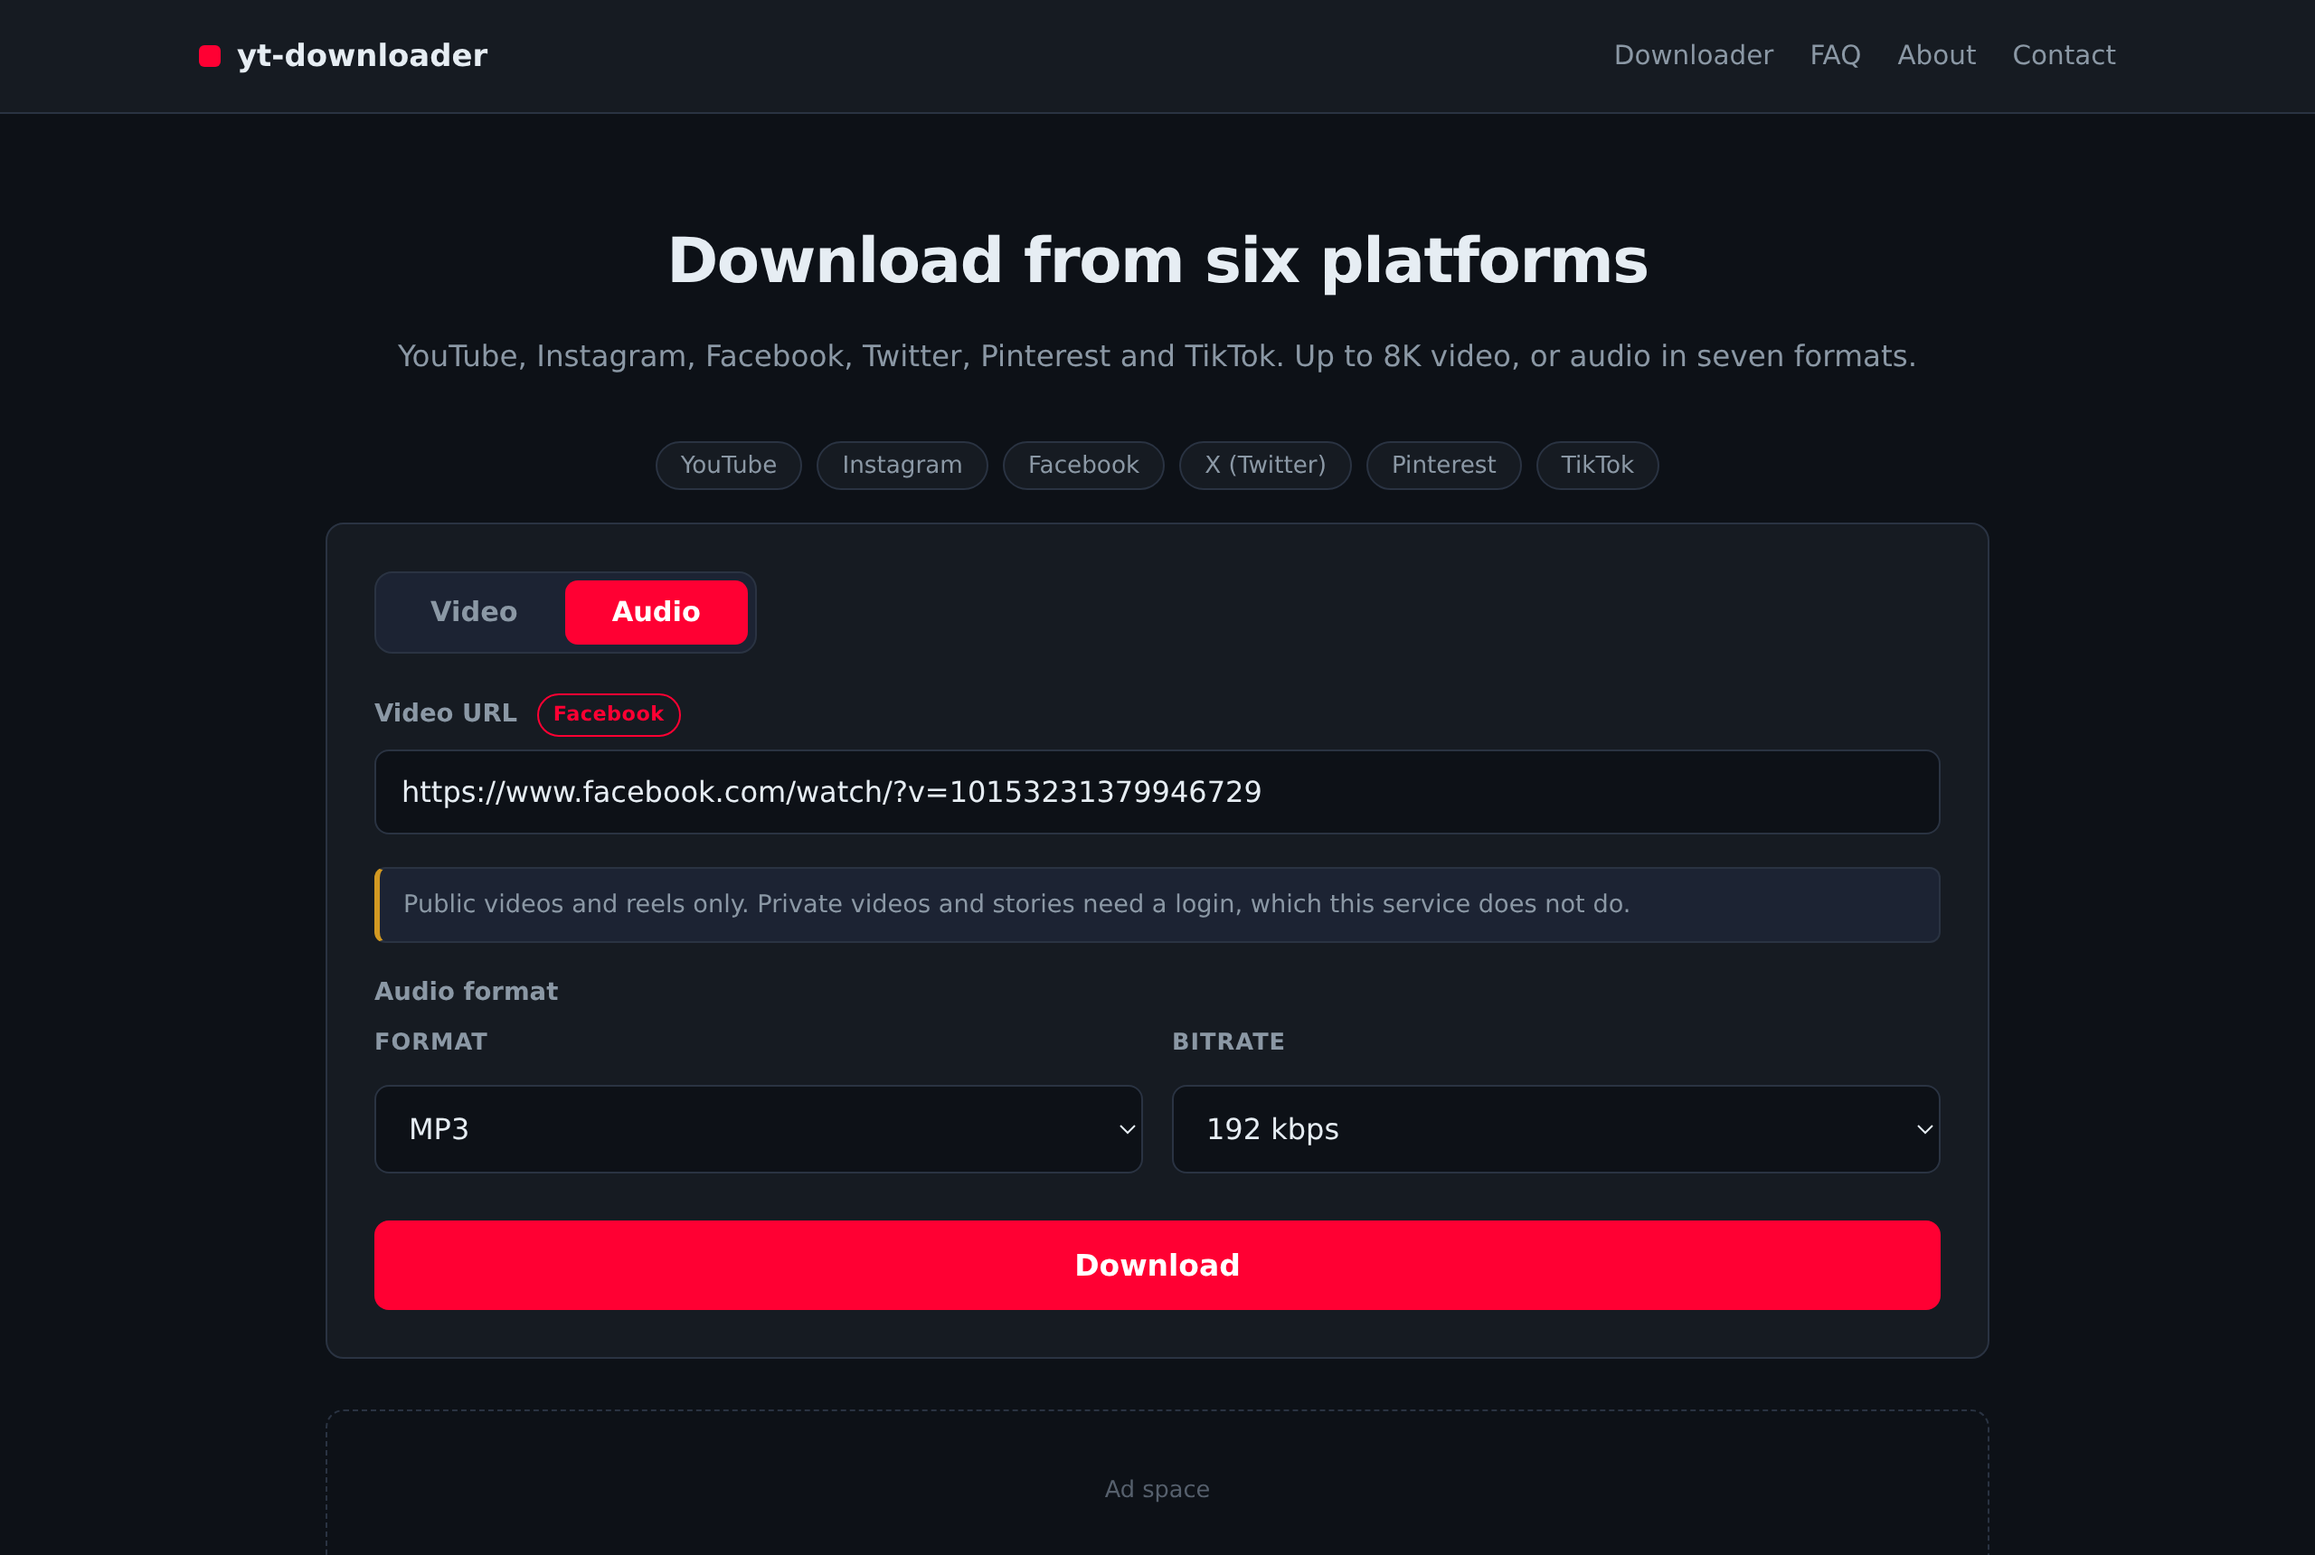
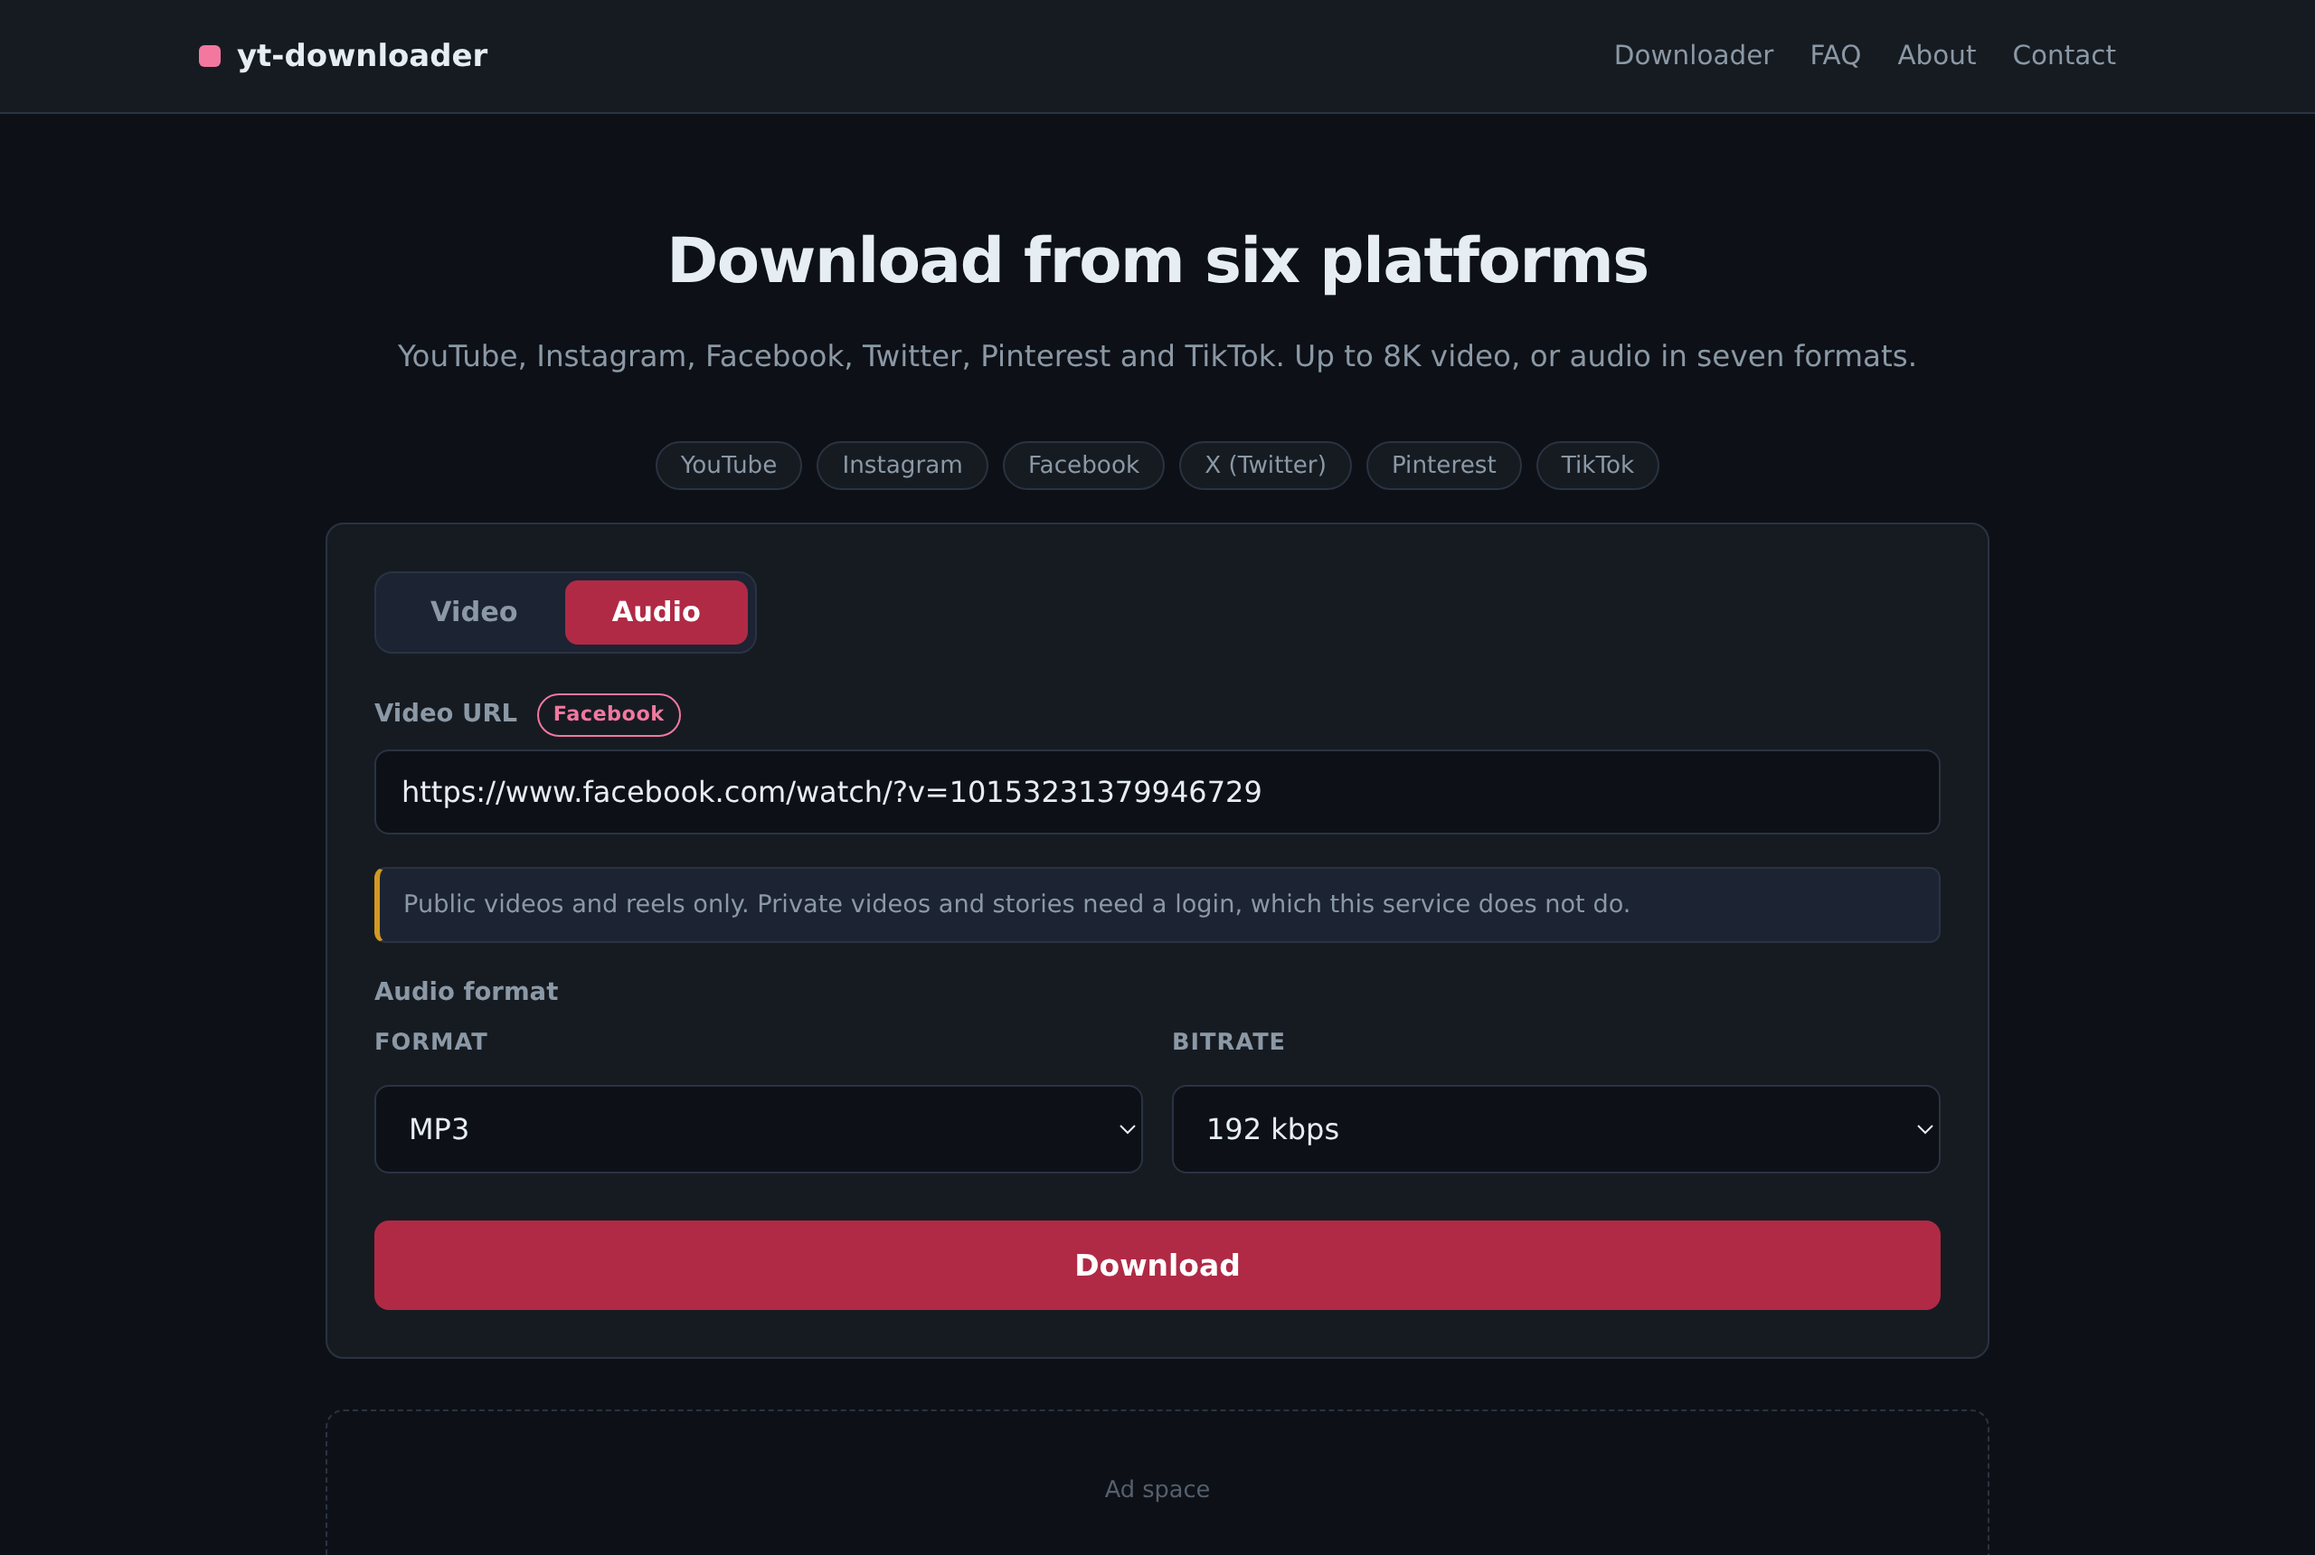
Replace the red accent with an eye-friendly rose palette
Bright red (#ff0033) is harsh to look at on the dark background and reads as
"error", which is the wrong signal for a normal primary action. It also failed
contrast: white text on it measured 3.96:1, below the WCAG AA threshold of 4.5.

One token cannot serve both roles, so the palette splits them:

  --accent        #f2789f  link text, borders, progress fill, chips
                           7.18:1 on --bg
  --accent-solid  #b02a45  filled buttons and active tabs, under white text
                           6.44:1 against white
  --accent-hover  #c9334b  hover state for the filled buttons, 5.17:1

Every filled surface that carries white text now uses --accent-solid; --accent
is only used on dark backgrounds or as a decorative fill. The error alert is
softened to a rose tint (#3a1a20 on #ffc9d2, 10.78:1) so it stays distinct from
the accent without shouting.

The change is confined to the :root block of frontend/assets/style.css. No page
or script hardcodes a colour, so nothing else needed editing.

Also replaced the one red in the diagrams: the rejection path in
request-flow.svg moves from #cf222e to #b02a45, keeping the light-canvas SVG
palette consistent with the app.

Recaptured all four screenshots, since they show the UI and the old red would
otherwise be baked into the README. Verified pixel-wise that the previous
accent appears zero times in the new captures.

README gains a "Colour and accessibility" section documenting the tokens, their
[…]

Changed region(s): [[0.1562, 0.7703, 0.8438, 0.8628], [0.2188, 0.3698, 0.3438, 0.4622]]

diff --git a/frontend/assets/style.css b/frontend/assets/style.css
@@ -5,8 +5,15 @@
   --border: #2a3342;
   --text: #e6edf3;
   --muted: #8b98a5;
-  --accent: #ff0033;
-  --accent-hover: #ff2a55;
+  /* Rose accent, replaces the earlier saturated red. Chosen so that both
+     directions of use clear WCAG AA (4.5:1):
+       --accent        link text on --bg      7.18:1
+       --accent-solid  filled button surfaces 6.44:1 against white text
+     Keep the two roles separate: --accent is too light for white text, and
+     --accent-solid is too dark for body text on --bg. */
+  --accent: #f2789f;
+  --accent-hover: #c9334b;
+  --accent-solid: #b02a45;
   --ok: #3fb950;
   --warn: #d29922;
   --radius: 10px;
@@ -113,7 +120,7 @@ nav.site a:hover { color: var(--text); text-decoration: none; }
   transition: background 0.15s, color 0.15s;
 }
 
-.toggle button.active { background: var(--accent); color: #fff; }
+.toggle button.active { background: var(--accent-solid); color: #fff; }
 .toggle button:hover:not(.active) { color: var(--text); }
 
 /* ---------- Input ---------- */
@@ -165,15 +172,15 @@ input:focus, textarea:focus, select:focus {
 
 .quality-grid button:hover { border-color: var(--accent); }
 .quality-grid button.active {
-  background: var(--accent);
-  border-color: var(--accent);
+  background: var(--accent-solid);
+  border-color: var(--accent-solid);
   color: #fff;
 }
 
 /* ---------- Primary button ---------- */
 .btn-primary {
   width: 100%;
-  background: var(--accent);
+  background: var(--accent-solid);
   color: #fff;
   border: 0;
   border-radius: 8px;
@@ -225,7 +232,7 @@ input:focus, textarea:focus, select:focus {
 }
 
 .alert.visible { display: block; }
-.alert.error { background: #3d1418; border: 1px solid #7d2029; color: #ffb3ba; }
+.alert.error { background: #3a1a20; border: 1px solid #8a3a47; color: #ffc9d2; }
 .alert.ok { background: #12261a; border: 1px solid #1f6b32; color: #8ce9a3; }
 
 .download-link {

diff --git a/README.md b/README.md
@@ -20,6 +20,7 @@ shows an Audio tab it cannot honour.*
 
 - [What it does](#what-it-does)
 - [Screenshots](#screenshots)
+- [Colour and accessibility](#colour-and-accessibility)
 - [Stack](#stack)
 - [Architecture](#architecture)
 - [How the download logic works](#how-the-download-logic-works)
@@ -67,6 +68,31 @@ format selector and a bitrate selector (128–320 kbps, or best available).*
 *Completion. The task ran as a queued job; the API returned a task id
 immediately and the UI watched it. At 100% the progress bar is replaced by a
 direct link to `/api/file/{task_id}`.*
+
+## Colour and accessibility
+
+The accent is a rose (`#f2789f`), not a saturated red. Bright red on a dark
+surface is hard to look at for long — it vibrates against the background, and it
+is the colour people are trained to read as "error", which is the wrong signal
+for a normal primary action.
+
+One variable cannot serve both roles, so the palette splits them:
+
+| Token | Value | Used for | Contrast |
+|-------|-------|----------|----------|
+| `--accent` | `#f2789f` | Link text, borders, progress fill, chips | 7.18:1 on `--bg` |
+| `--accent-solid` | `#b02a45` | Filled buttons and active tabs, under white text | 6.44:1 against white |
+| `--accent-hover` | `#c9334b` | Hover state for the filled buttons | 5.17:1 against white |
+
+This is not cosmetic. The previous `--accent: #ff0033` measured **3.96:1**
+against white text on the primary button, below the WCAG AA threshold of 4.5:1.
+The rose pair clears AA in both directions, so the same token is safe as body
+text on the dark background and as a button surface under white text. The error
+alert was softened to a rose tint as well (`#3a1a20` on `#ffc9d2`, 10.78:1) so
+it stays distinguishable from the accent without shouting.
+
+All colours live in the `:root` block of `frontend/assets/style.css`. Change
+them there; no page or script hardcodes a colour.
 
 ## Stack
 

diff --git a/AGENTS.md b/AGENTS.md
@@ -94,6 +94,16 @@ docker compose config --quiet   # validate before pushing
 
 ## README assets
 
+- **The accent palette is rose, not red, and splits into two tokens.** Bright
+  red (`#ff0033`) vibrates on the dark background and reads as "error" on a
+  primary action; it also measured only 3.96:1 against white button text, below
+  WCAG AA. Use `--accent: #f2789f` for text, borders and fills on dark surfaces
+  (7.18:1), and `--accent-solid: #b02a45` for any filled surface that carries
+  white text (6.44:1). Never put white text on `--accent`; never put body text
+  on `--accent-solid`. All colours live in `:root` in
+  `frontend/assets/style.css` — no page or script hardcodes one, so the palette
+  is a one-file change. Changing it means recapturing the screenshots, since
+  they show the UI.
 - `docs/img/*.svg` are hand-written diagrams (architecture, request flow, format
   pipeline, platform matrix). They use only text, rects, lines and paths, so
   GitHub renders them without a rasteriser. Keep `font-size` at 11.5px or above
